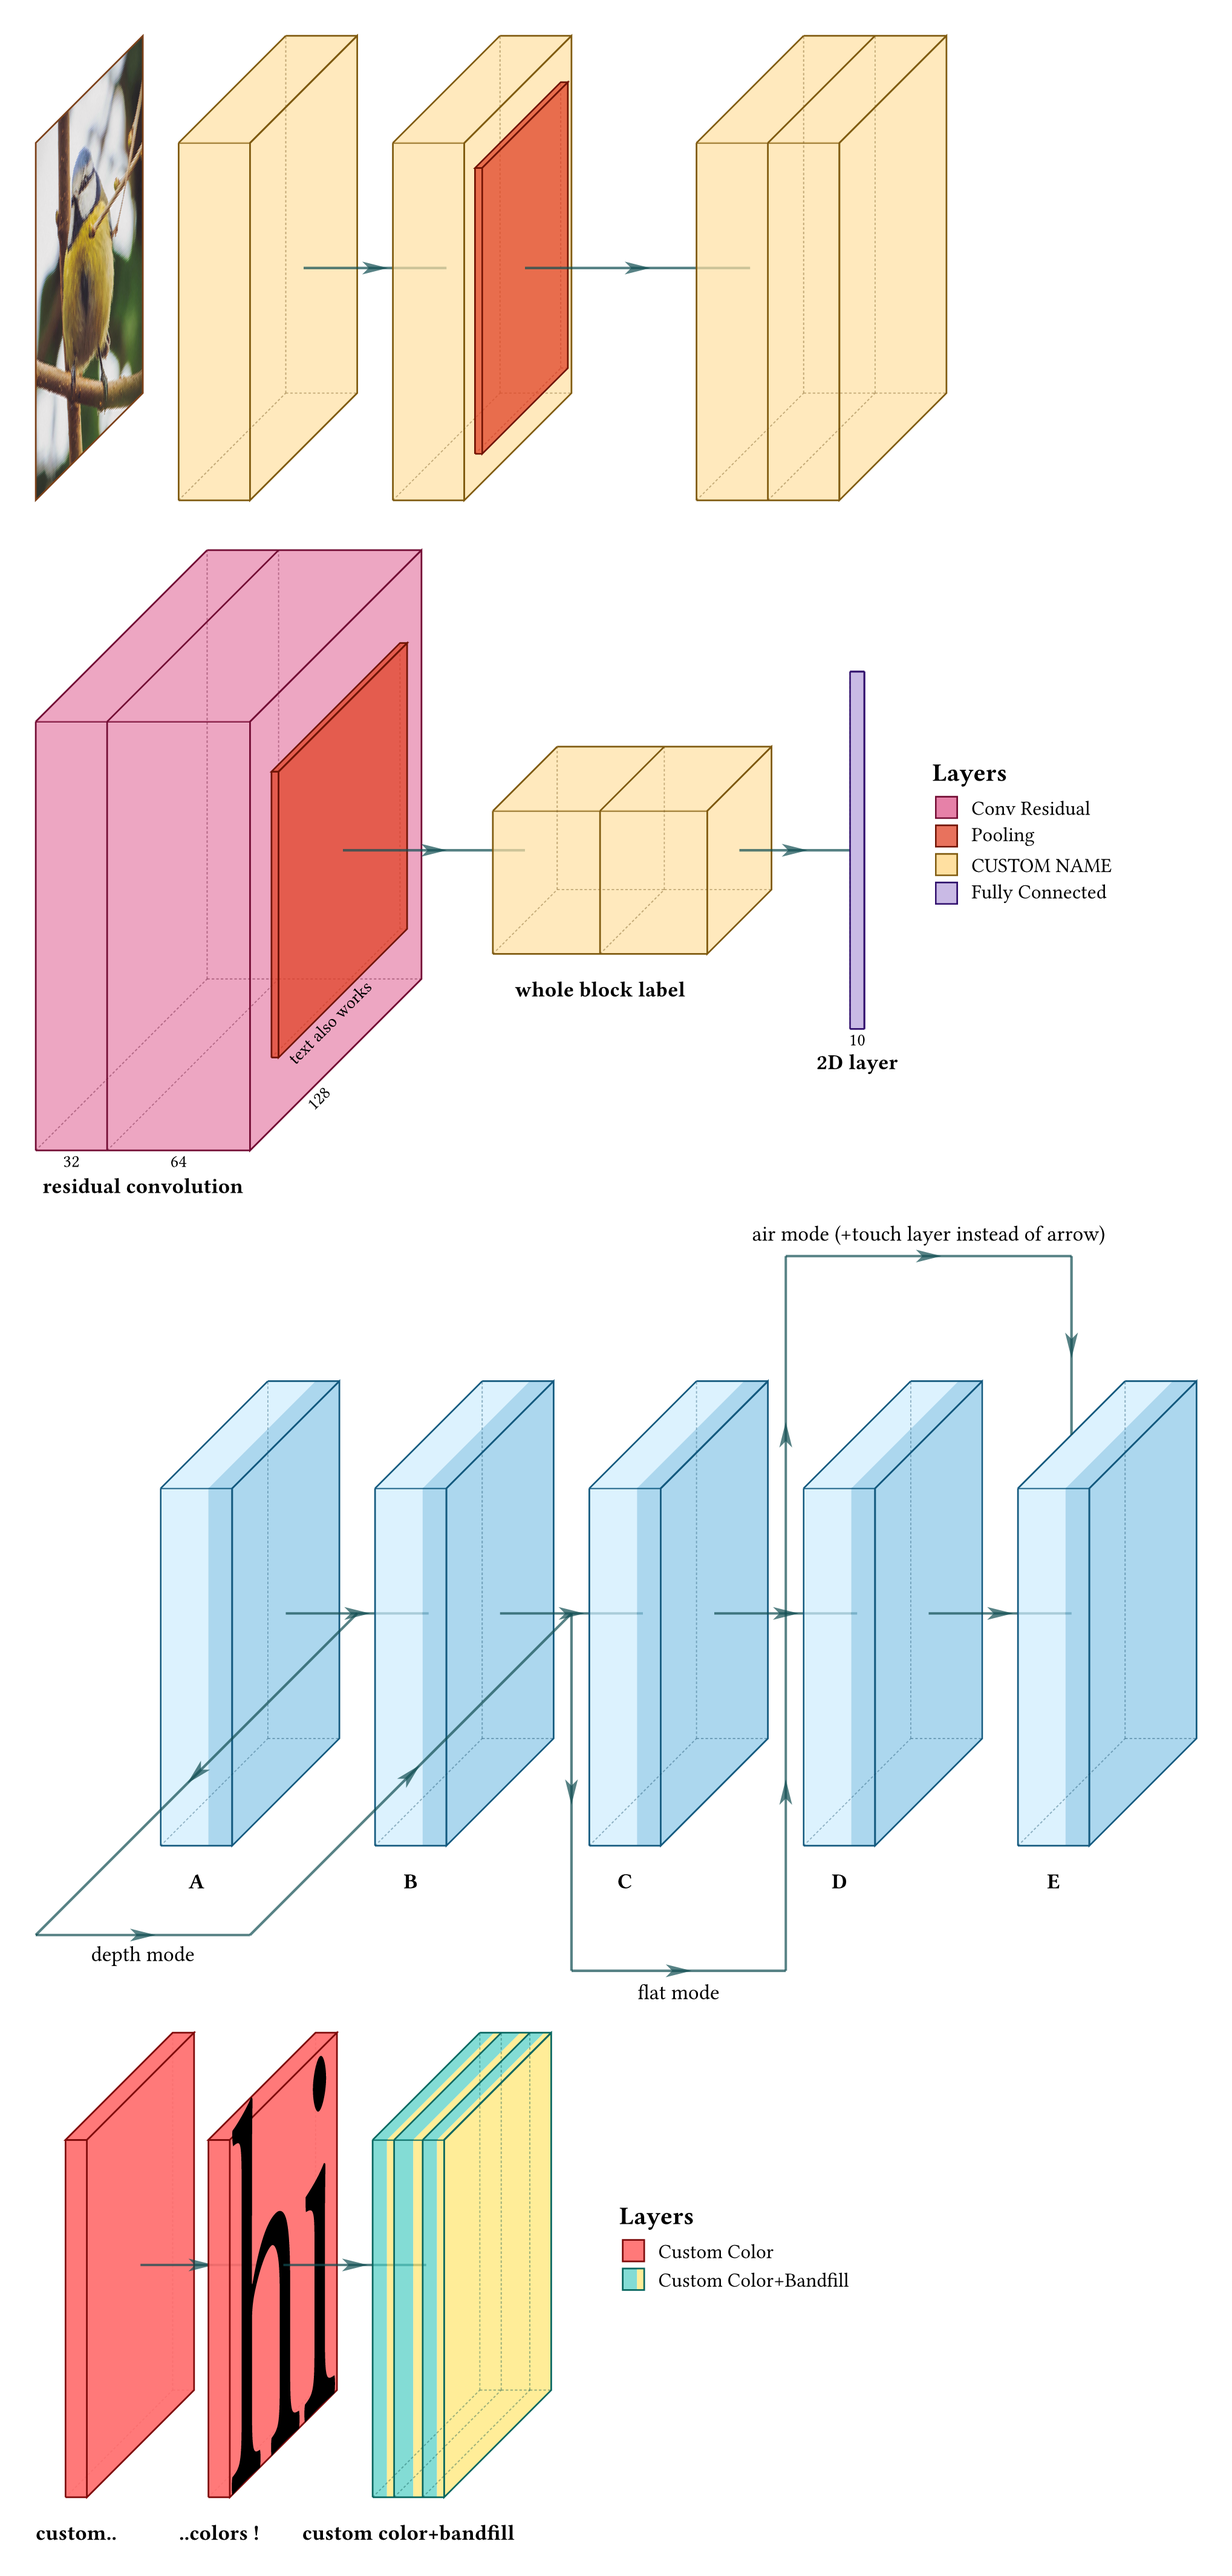
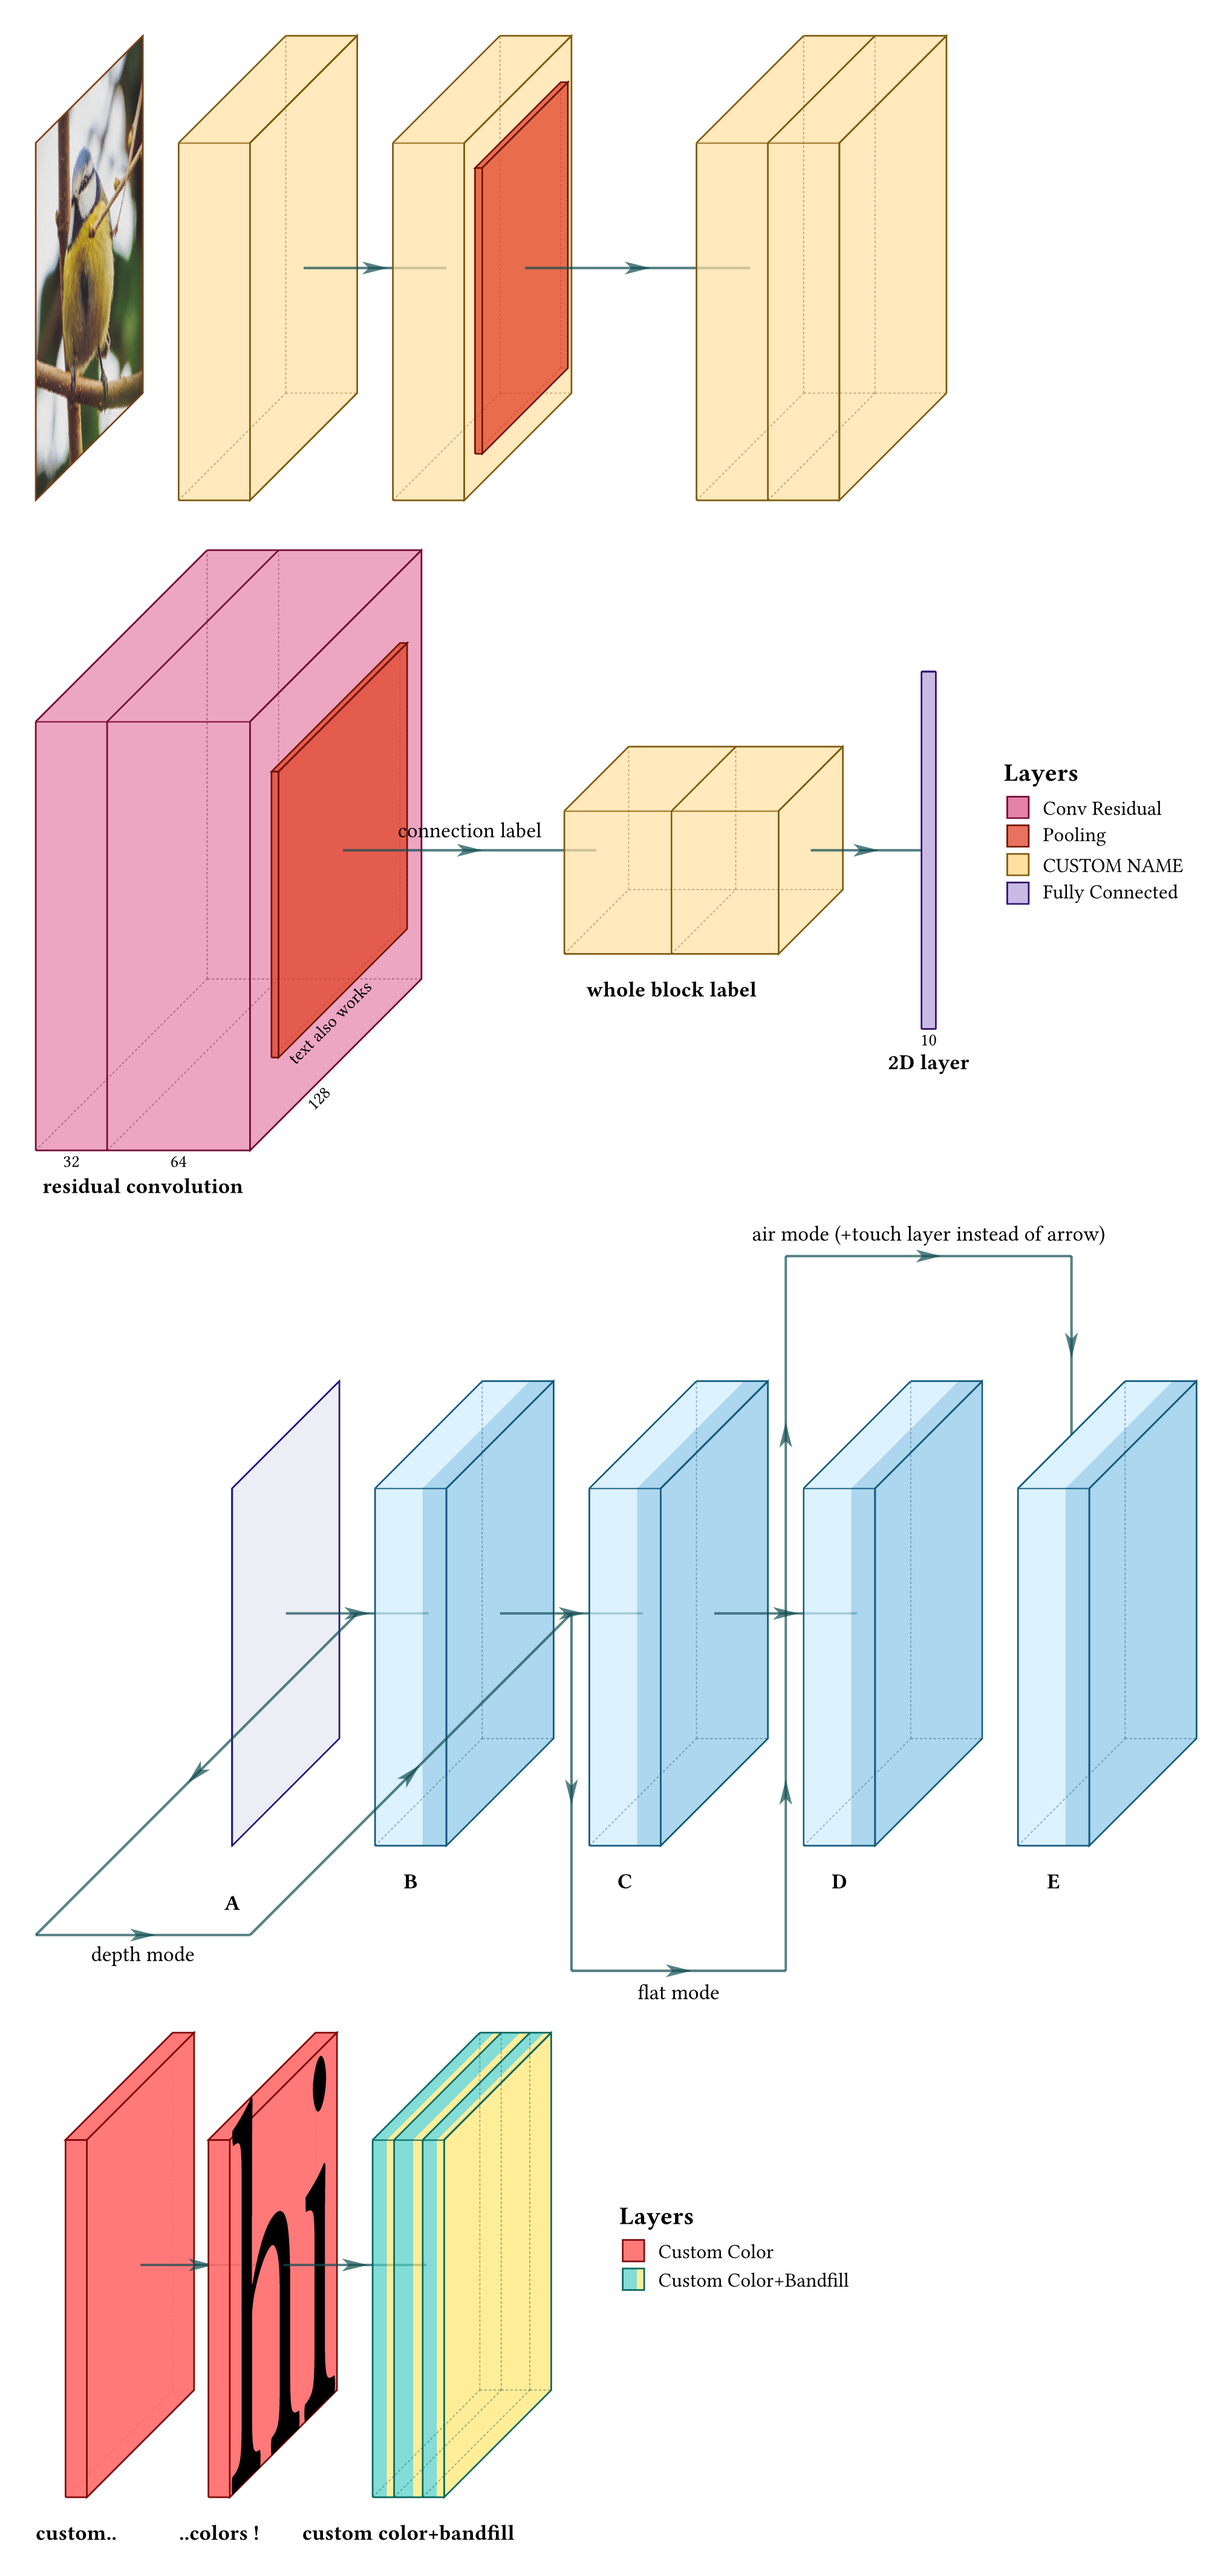
Update example and README with last features

diff --git a/README.md b/README.md
@@ -21,6 +21,7 @@ You can then call `draw-network` which has the following arguments:
   connections: (),
   palette: "warm",
   show-legend: false,
+  legend-title: "Layers Types",
   scale: 100%,
   stroke-thickness: 1,
   depth-multiplier: 0.3,
@@ -40,7 +41,7 @@ Here are a few simple features for getting started.
     (type: "input", image: "default"),
     (type: "conv", offset: 2), // Next layers are automatically connected with arrows
     (type: "conv", offset: 2),
-    (type: "pool"), // Pool layers are sticked to previous convolution block
+    (type: "pool"), // Pool layers are sticked to previous convolution block (by default))
     (type: "conv", widths: (1, 1), offset: 3) // you can offset layers
 ))
 ```
@@ -67,6 +68,7 @@ For the input type layer, you can also specify a custom image by giving `image: 
       channels: ("", "text also works"),
       height: 4,
       depth: 6,
+      connection-label: "connection label", // label of the connection to the NEXT layer
     ),(
       type: "conv",
       widths: (1.5, 1.5),
@@ -74,7 +76,7 @@ For the input type layer, you can also specify a custom image by giving `image: 
       depth: 3,
       label: "whole block label",
       legend: "CUSTOM NAME", // you can overwrite the default legend of predefined layers
-      offset: 3,
+      offset: 4,
     ),(
       type: "fc",
       channels: (10,),
@@ -96,16 +98,16 @@ Using `show-legend: true` you can add a smart legend to your visual !
 And if you network does not fit the page width of your Typst document, **you can reduce the scale by giving `scale: 50%` as argument of `draw-network`** (adjust the scale value to your need).
 
 
-### Adding other connexions
+### Adding other connections
 
-Though the main axis connections will be drawn automatically, you can specify other connexions to draw using the `connexions` argument of `draw-network`. In order to make reference to a layer, it will need a `name`:
+The main axis connections are drawn automatically, except for the input layer. You can overwrite that by using the boolean `show-connection` to tell if the connection **after** a layer should be drawn or not. You can also draw extra connections using the `connections` argument of `draw-network`. In order to make reference to a layer, it will need a `name`:
 
 ```typ
 #draw-network((
-  (type: "conv", label: "A", name: "a"),
+  (type: "input", label: "A", name: "a", show-connection: true),
   (type: "conv", label: "B", name: "b", offset: 2),
   (type: "conv", label: "C", name: "c", offset: 2),
-  (type: "conv", label: "D", name: "d", offset: 2),
+  (type: "conv", label: "D", name: "d", offset: 2, show-connection: false),
   (type: "conv", label: "E", name: "e", offset: 2),
 ), connections: (
   (from: "a", to: "c", type: "skip", mode: "depth", label: "depth mode", pos: 6),
@@ -117,7 +119,7 @@ show-relu: true // visualize relu using darker color on convolution layers
 )
 ```
 <p align="center">
-<img src="gallery/features/connexions.png" alt="Adding connexions example" width="500"/>
+<img src="gallery/features/connections.png" alt="Adding connections example" width="500"/>
 </p>
 
 ### Predefined layer types
